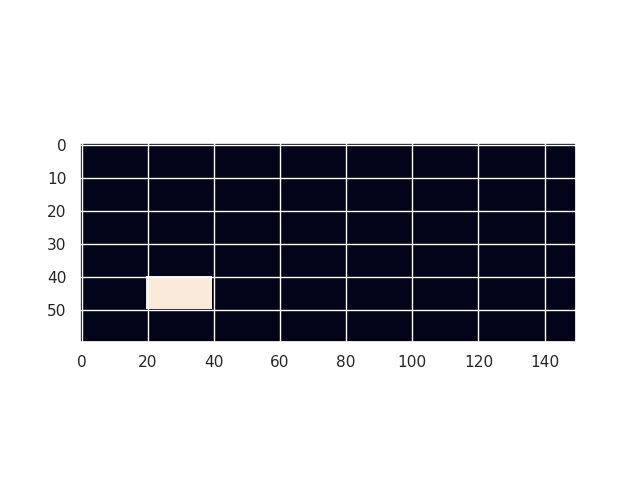
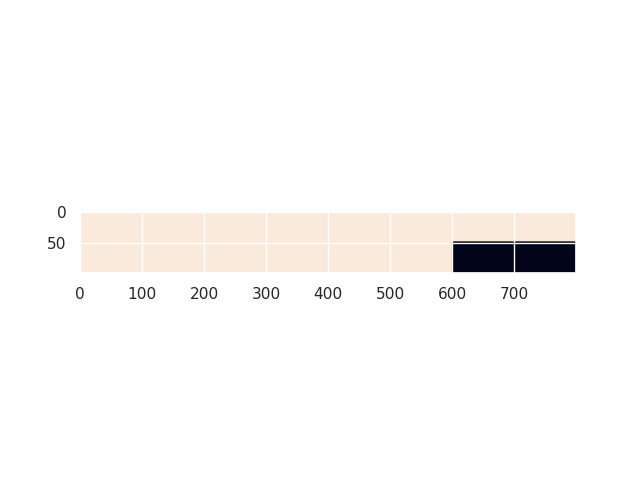
Split up pixels

diff --git a/main.py b/main.py
@@ -3,6 +3,8 @@ import matplotlib.pyplot as plt
 import time
 import sys
 import os
+import seaborn as sns
+sns.set()
 
 from game.game import JumpGame
 from snn.snn import SNN
@@ -32,19 +34,51 @@ def main():
 
         game.play_one_step()
         pixels = game.get_pixels()  # input for the snn
-        print(pixels.shape) 
+        pixels = pixels.T.astype(np.float)
 
         # use just a cutout from the pixels as input, to simplify
-        input_ = pixels
+        #input_ = pixels
+
+        #print(input_1.shape) 
 
 
-        
+        pixels[:,:] /= 10053375
 
-        fig, ax = plt.subplots()
-        ax.imshow(pixels.T)
+        #pixels
+        #pixels[0:52, 400:500,] = 1 #np.random.randn(50, 100)
 
-        plt.savefig('output/game_testfig.png')
-        exit('jau')
+
+        square_side_x = 100           # n pixels per square that represents a retinal neuron 
+        square_size_y = 50
+        nx = 10
+        ny = 2
+
+        splitted = split_pixels(pixels)
+        print(splitted.shape)
+        exit('o')
+
+        #inputs = [np.arange(i,i+step)]
+
+        ## two lanes for now
+        ## one eye per lane
+        #for el in pixels.reshape(-1):
+        #    if el != 0:
+        #        print(el)
+        #        print('ballll')
+
+        #exit('i')
+
+        #
+        #img = np.ones(shape=(50,50)) * 0.3
+        ##img = np.random.randn(40, 40)
+
+        #fig, ax = plt.subplots()
+        #ax.imshow(pixels, )
+        ##ax.imshow(img,) 
+
+        #plt.savefig('output/game_testfig.png')
+        #exit('jau')
+        #print()
 
         # Create spikes out of the pixels?
         # a non zero pixel is a spike
@@ -53,6 +87,38 @@ def main():
 
 
 
+def split_pixels(img):
+    '''
+    Divide the pixels into compartments that are used as input to single neurons
+    '''
+
+    img_length = img.shape[1]   # length is n columns
+    img_height = img.shape[0]   # height is n rows
+
+    nx = 100
+    ny = 50
+
+    splitted = []
+
+    i = 0
+    j = 0
+    done = False
+    while not done:
+
+        cutout = img[j:j+ny, i:i+nx] 
+        splitted.append(cutout) 
+
+        # Move to next cutout:
+        i += nx
+        if i >= img_length - 1:
+            i = 0
+            j += ny
+
+        # Check if done:
+        if j >= img_height:
+            done = True
+        
+    return np.array(splitted)
 
 
 

diff --git a/game/game.py b/game/game.py
@@ -16,7 +16,7 @@ class JumpGame:
         pg.init()
 
         self._running = False
-        self.win_size = self.win_width, self.win_height = 150, 60
+        self.win_size = self.win_width, self.win_height = 800, 100
         self.win = pg.display.set_mode(self.win_size)
         self.delay_ms = 10
  
